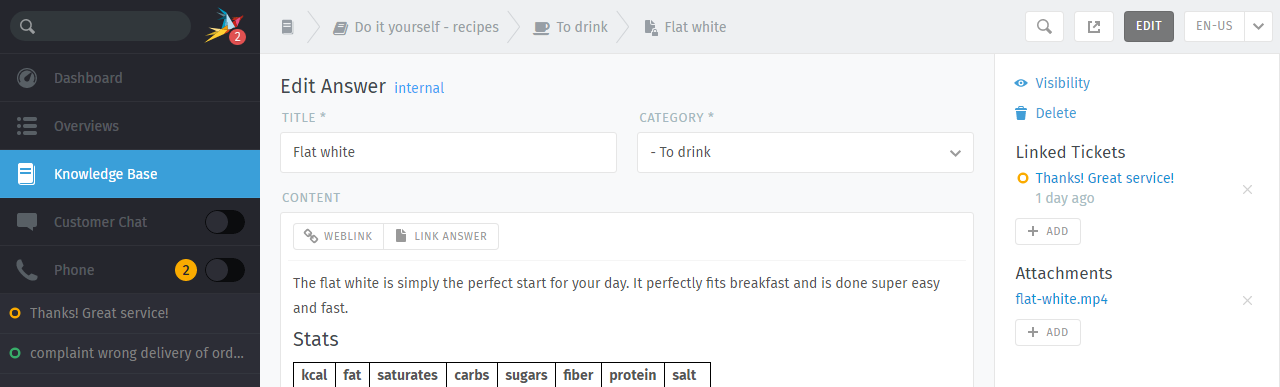
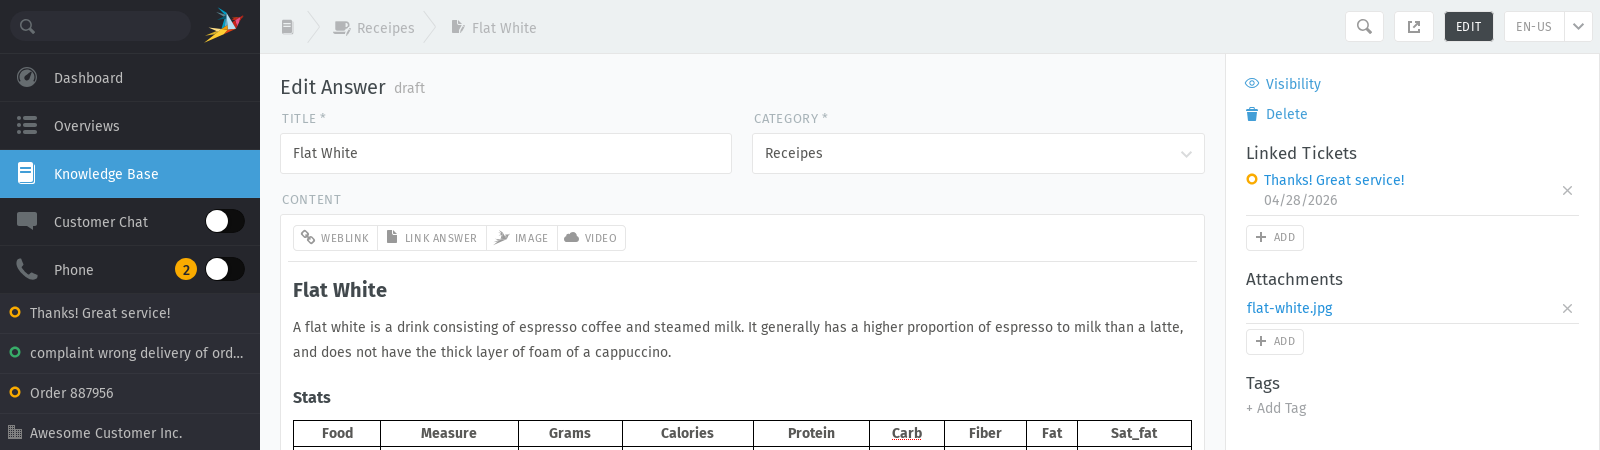
Fixes #586 - Add missing link types and video embedding to knowledge base

diff --git a/extras/knowledge-base.rst b/extras/knowledge-base.rst
@@ -99,8 +99,8 @@ talk to your administrator about enabling the function.
       to.
 
       .. figure:: /images/extras/knowledge-base/knowledge-base-internal-rss-function.png
-         :alt: Screenshot showing the modal for of the RSS button
-         :width: 99%
+         :alt: Screenshot shows the modal for of the RSS button
+         :align: center
 
       .. warning::
 
@@ -108,7 +108,7 @@ talk to your administrator about enabling the function.
          Never share these URLs with anyone else!
 
          If you want to revoke the access and renew your token, you can do so
-         in the RSS modal.
+         in the RSS dialog.
 
          .. figure:: /images/extras/knowledge-base/knowledge-base-reset-rss-access-token.png
             :alt: Screenshot showing the access token reset link on the lower
@@ -146,8 +146,8 @@ If you're unsure, please ask your administrator to configure the
 :admin-docs:`role permissions </manage/roles/agent-permissions.html>`
 accordingly.
 
-.. figure:: /images/extras/knowledge-base/knowledge-base-granular-category-permissions.gif
-   :alt: Screencast showing the visibility option for categories for granular access permissions
+.. figure:: /images/extras/knowledge-base/knowledge-base-granular-category-permissions.png
+   :alt: Screenshot shows the granular category permissions for knowledge base
    :align: center
 
 In general, permissions of a parent category are inherited! If you want to
@@ -177,23 +177,40 @@ The knowledge base editor comes equipped with the same
 **rich text editing capabilities** available in the Zammad ticket composer.
 That means you can use the same
 :doc:`keyboard shortcuts </advanced/keyboard-shortcuts>` to insert formatted
-text, bullet lists, and more. You can even add file attachments and links!
+text, bullet lists and more. You can even add file attachments and links!
 
 Different link types
-   **Web link**
-      URLs pointing to other websites.
+   Web link
+     URLs pointing to other websites.
 
-   **Link Answer**
+   Link Answer
       Internal references to other knowledge base answers (will not break if
       destination URL changes).
 
-   **Linked Tickets**
+   Image
+      Include an image from your computer in the answer. Unlike file
+      attachments, these images are embedded directly in the answer.
+
+   Video
+      Include a video to embed in the answer. By default, you can embed videos
+      from Vimeo and YouTube. Depending on your Zammad settings, MediaCMS and
+      PeerTube instances can be enabled by your admin as well. A list of
+      supported video services is displayed in the video dialog below the URL
+      field.
+
+   Linked Tickets
       Internal references to Zammad tickets (visible only in preview and edit
       mode).
 
-   **Tags**
-      Can help to categorize or label answers for better search results. Please note
-      that tags are visible publicly and can be the same like those in your tickets.
+   Attachments
+      Add any file as an attachment to your answer. Such an attachment isn't
+      embedded in the body of the answer. Readers can download it by clicking
+      on it in the attachment section.
+
+   Tags
+      Can help to categorize or label answers for better search results. Please
+      note that tags are visible publicly and can be the same as those in your
+      tickets.
 
 Visibility
    Set the visibility of an answer to control who can see an article,